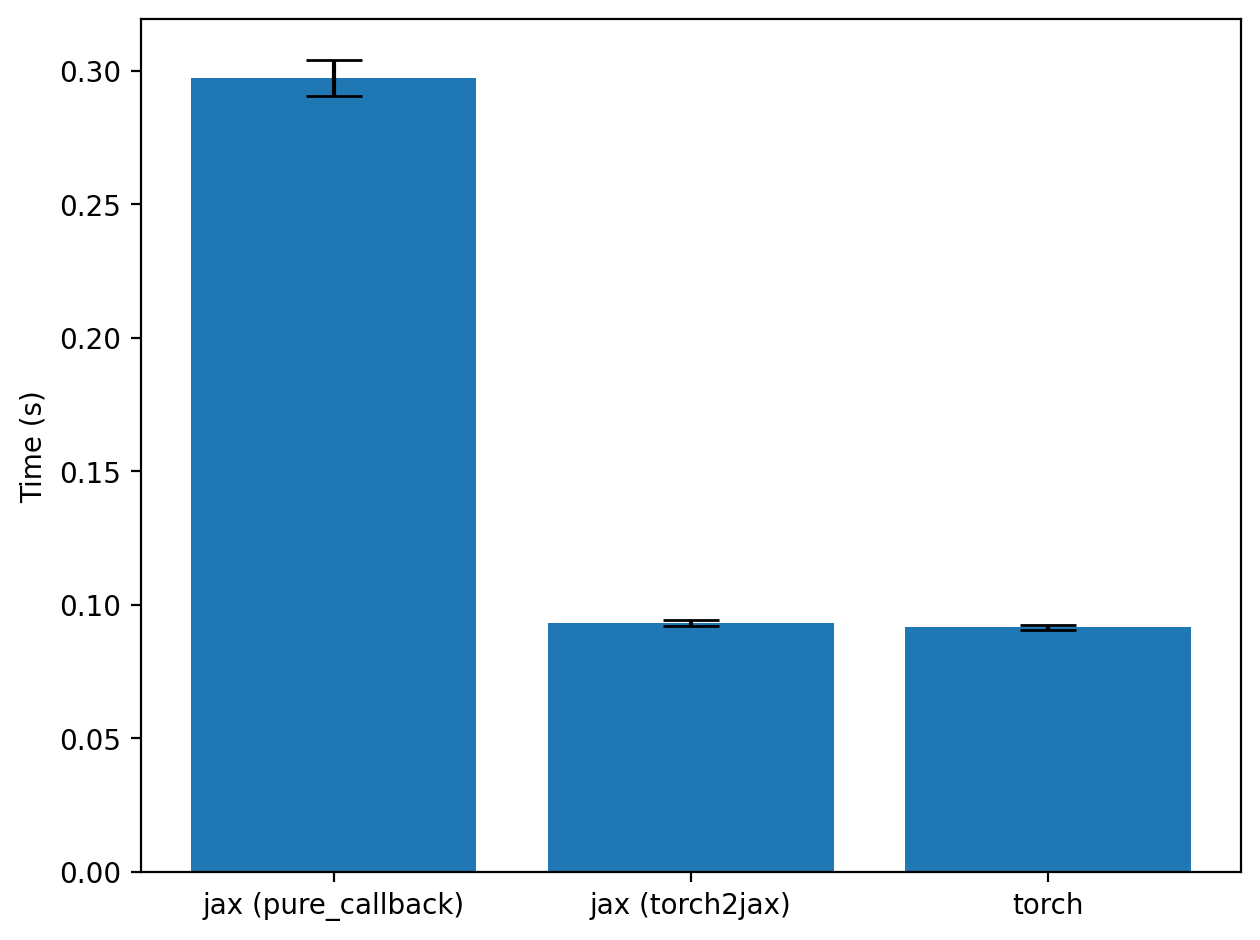
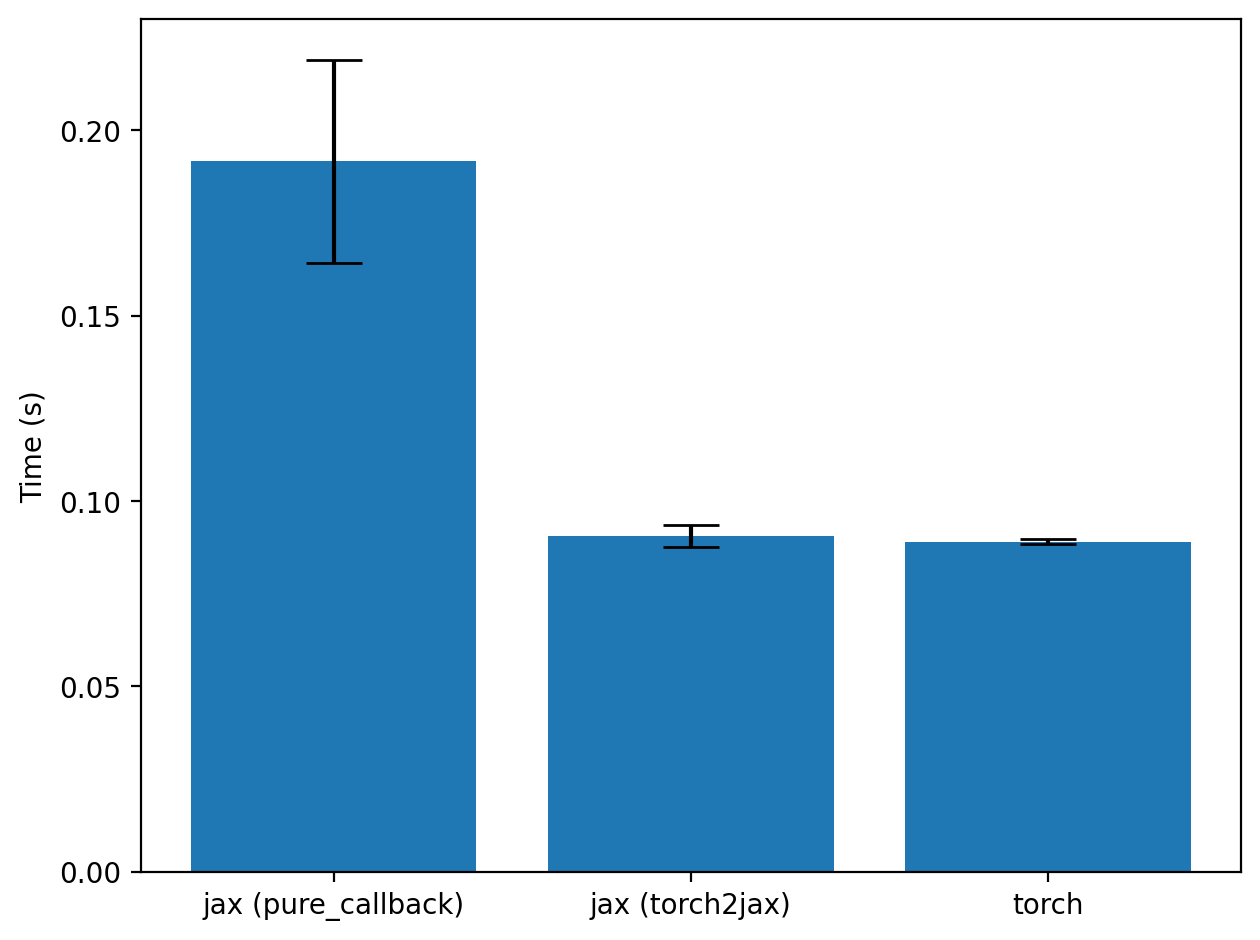
small docs fixes

diff --git a/torch2jax/utils.py b/torch2jax/utils.py
@@ -147,6 +147,7 @@ def warn_once(msg, torch_fn):
     del torch_fn  # used for proper hashing of context for lru_cache
     warnings.warn(msg)
 
+
 @lru_cache
 def warn_always(msg):
     with warnings.catch_warnings():

diff --git a/docs/examples/bert_example.md b/docs/examples/bert_example.md
@@ -1,10 +1,6 @@
 # Calling BERT model from JAX (with BERT weights in JAX)
 
 ```python
-from __future__ import annotations
-
-import sys
-from pathlib import Path
 import random
 import time
 
@@ -81,11 +77,20 @@ Total error in gradient: 0.0000e+00
 ### Timing the gains over `pure_callback`
 
 ```python
-root_path = Path("").absolute().parent / "tests"
-if str(root_path) not in sys.path:
-    sys.path.append(str(root_path))
+def wrap_torch_fn(fn, output_shapes, device: str = "cpu"):
+    def numpy_fn(*args):
+        args = jax.tree.map(lambda x: torch.as_tensor(x, device=device), args)
+        out = fn(*args)
+        out = (out,) if isinstance(out, Tensor) else tuple(out)
+        out = [z.detach().cpu().numpy() for z in out]
+        return out
 
-from pure_callback_alternative import wrap_torch_fn
+    jax_output_shapes = jax.tree.map(lambda x: jax.ShapeDtypeStruct(x.shape, dtype_t2j(x.dtype)), output_shapes)
+
+    def wrapped_fn(*args):
+        return jax.pure_callback(numpy_fn, jax_output_shapes, *args)
+
+    return wrapped_fn
 ```
 
 ```python

diff --git a/docs/index.md b/docs/index.md
@@ -45,10 +45,6 @@ $ python3
 $ >>> from wrap_torch2jax import torch2jax
 ```
 
-Tested on:
-  - CPU: Python: `3.9 3.10 3.11 3.12` & JAX Versions `0.4.26 0.4.27 0.4.28 0.4.29 0.4.30 0.4.31`
-  - CUDA: Python `3.9 3.10 3.11 3.12` & JAX Versions `0.4.30 0.4.31`
-
 # Usage
 
 `torch2jax` is the main entry point. By default it defines gradients (VJP rules
